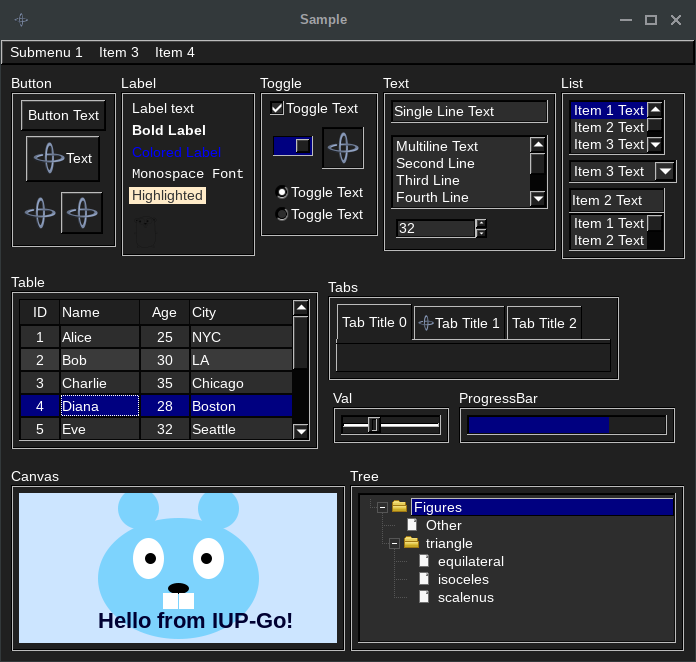
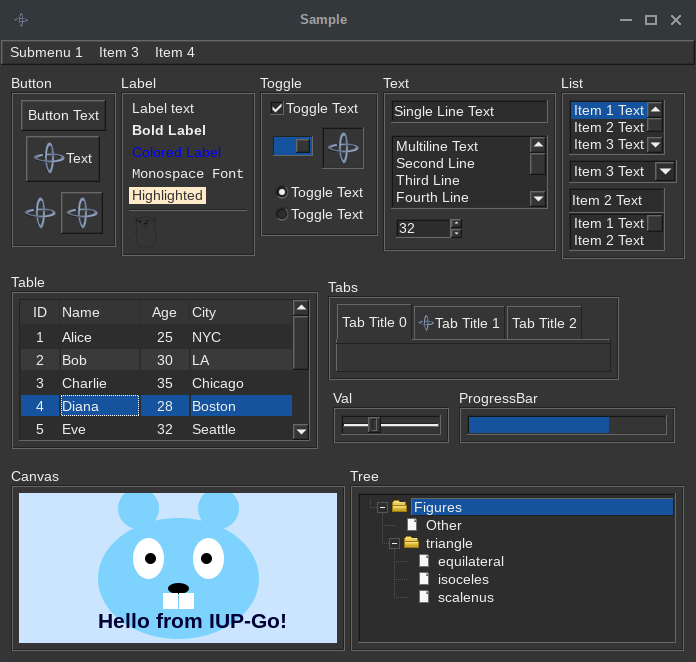
fltk: Use softer colors for APPEARANCE=DARK

diff --git a/iup/external/src/fltk/iupfltk_open.cpp b/iup/external/src/fltk/iupfltk_open.cpp
@@ -203,12 +203,30 @@ IUP_DRV_API void iupfltkSetGlobalColors()
 static unsigned char fltk_system_bg[3] = { 192, 192, 192 };
 static unsigned char fltk_system_fg[3] = { 0, 0, 0 };
 static unsigned char fltk_system_bg2[3] = { 255, 255, 255 };
+static unsigned char fltk_system_sel[3] = { 0, 0, 128 };
 static int fltk_portal_fd = -1;
 
 extern "C" IUP_SDK_API int iupdrvIsSystemDarkMode(void)
 {
   int luminance = static_cast<int>(0.299 * fltk_system_bg[0] + 0.587 * fltk_system_bg[1] + 0.114 * fltk_system_bg[2]);
   return (luminance < 128) ? 1 : 0;
+}
+
+static void fltkSetDarkColors()
+{
+  const int bg = 53;
+  const int gray = FL_GRAY - FL_GRAY_RAMP;
+
+  Fl::background(bg, bg, bg);
+  for (int i = 0; i < FL_NUM_GRAY; i++)
+  {
+    int v = (i <= gray) ? (bg * (2 * gray + 3 * i)) / (5 * gray) : bg + (i - gray) * 10;
+    Fl::set_color(fl_gray_ramp(i), static_cast<uchar>(v), static_cast<uchar>(v), static_cast<uchar>(v));
+  }
+
+  Fl::foreground(238, 238, 236);
+  Fl::background2(45, 45, 45);
+  Fl::set_color(FL_SELECTION_COLOR, 21, 83, 158);
 }
 
 extern "C" IUP_SDK_API void iupdrvSetAppearance(int appearance)
@@ -225,18 +243,16 @@ extern "C" IUP_SDK_API void iupdrvSetAppearance(int appearance)
     Fl::background(fltk_system_bg[0], fltk_system_bg[1], fltk_system_bg[2]);
     Fl::foreground(fltk_system_fg[0], fltk_system_fg[1], fltk_system_fg[2]);
     Fl::background2(fltk_system_bg2[0], fltk_system_bg2[1], fltk_system_bg2[2]);
+    Fl::set_color(FL_SELECTION_COLOR, fltk_system_sel[0], fltk_system_sel[1], fltk_system_sel[2]);
   }
   else if (dark)
-  {
-    Fl::background(32, 32, 32);
-    Fl::foreground(255, 255, 255);
-    Fl::background2(45, 45, 45);
-  }
+    fltkSetDarkColors();
   else
   {
     Fl::background(240, 240, 240);
     Fl::foreground(0, 0, 0);
     Fl::background2(255, 255, 255);
+    Fl::set_color(FL_SELECTION_COLOR, fltk_system_sel[0], fltk_system_sel[1], fltk_system_sel[2]);
   }
 
   iupfltkSetGlobalColors();
@@ -322,6 +338,7 @@ extern "C" IUP_SDK_API int iupdrvOpen(int* argc, char*** argv)
   Fl::get_color(FL_BACKGROUND_COLOR, fltk_system_bg[0], fltk_system_bg[1], fltk_system_bg[2]);
   Fl::get_color(FL_FOREGROUND_COLOR, fltk_system_fg[0], fltk_system_fg[1], fltk_system_fg[2]);
   Fl::get_color(FL_BACKGROUND2_COLOR, fltk_system_bg2[0], fltk_system_bg2[1], fltk_system_bg2[2]);
+  Fl::get_color(FL_SELECTION_COLOR, fltk_system_sel[0], fltk_system_sel[1], fltk_system_sel[2]);
 
   fltk_portal_fd = iupUnixPortalSettingsOpen();
   if (fltk_portal_fd >= 0)
